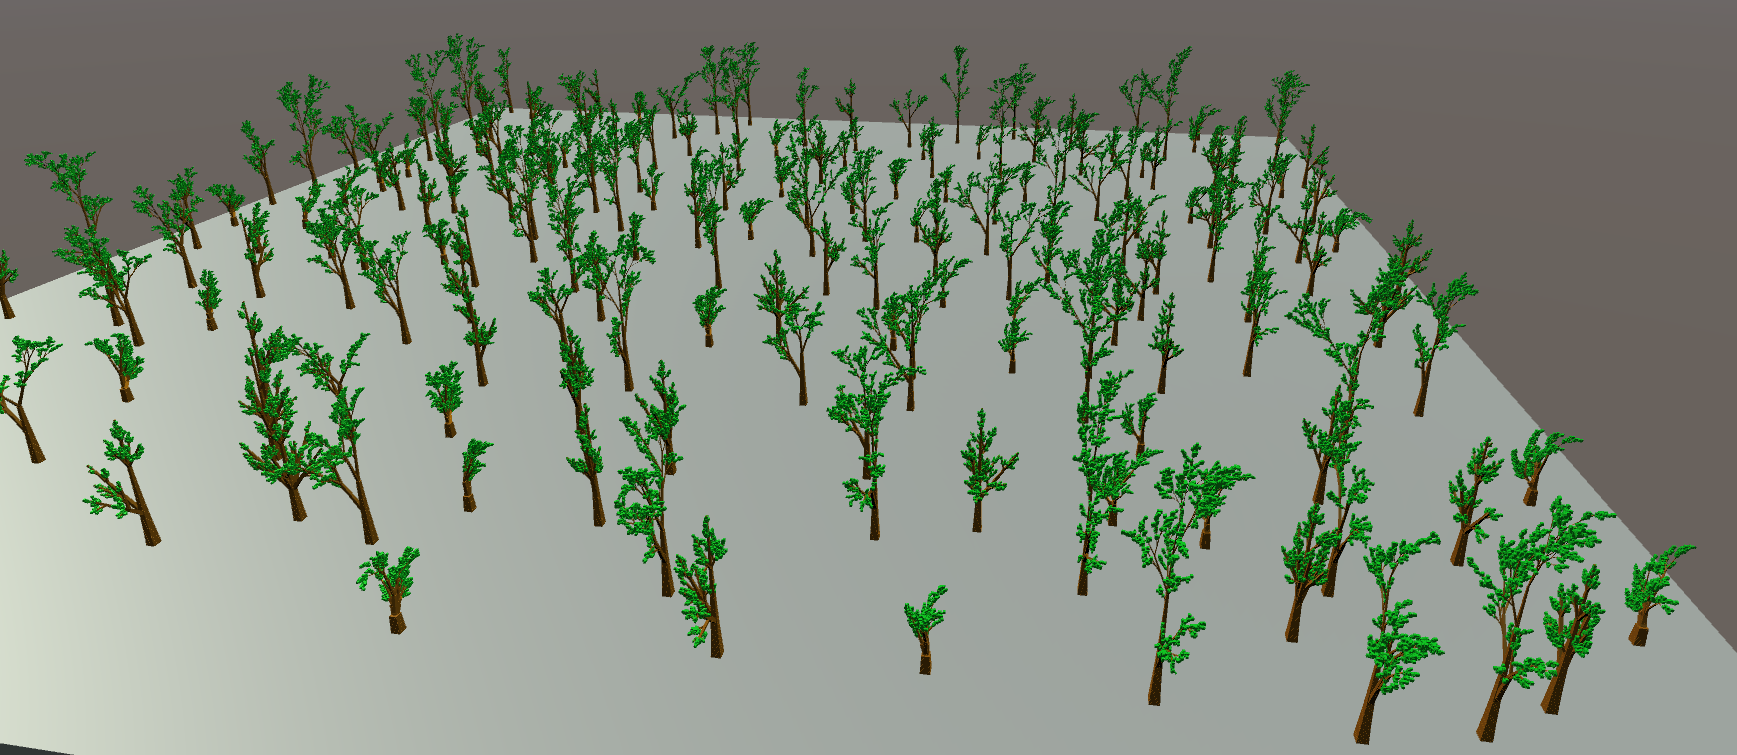
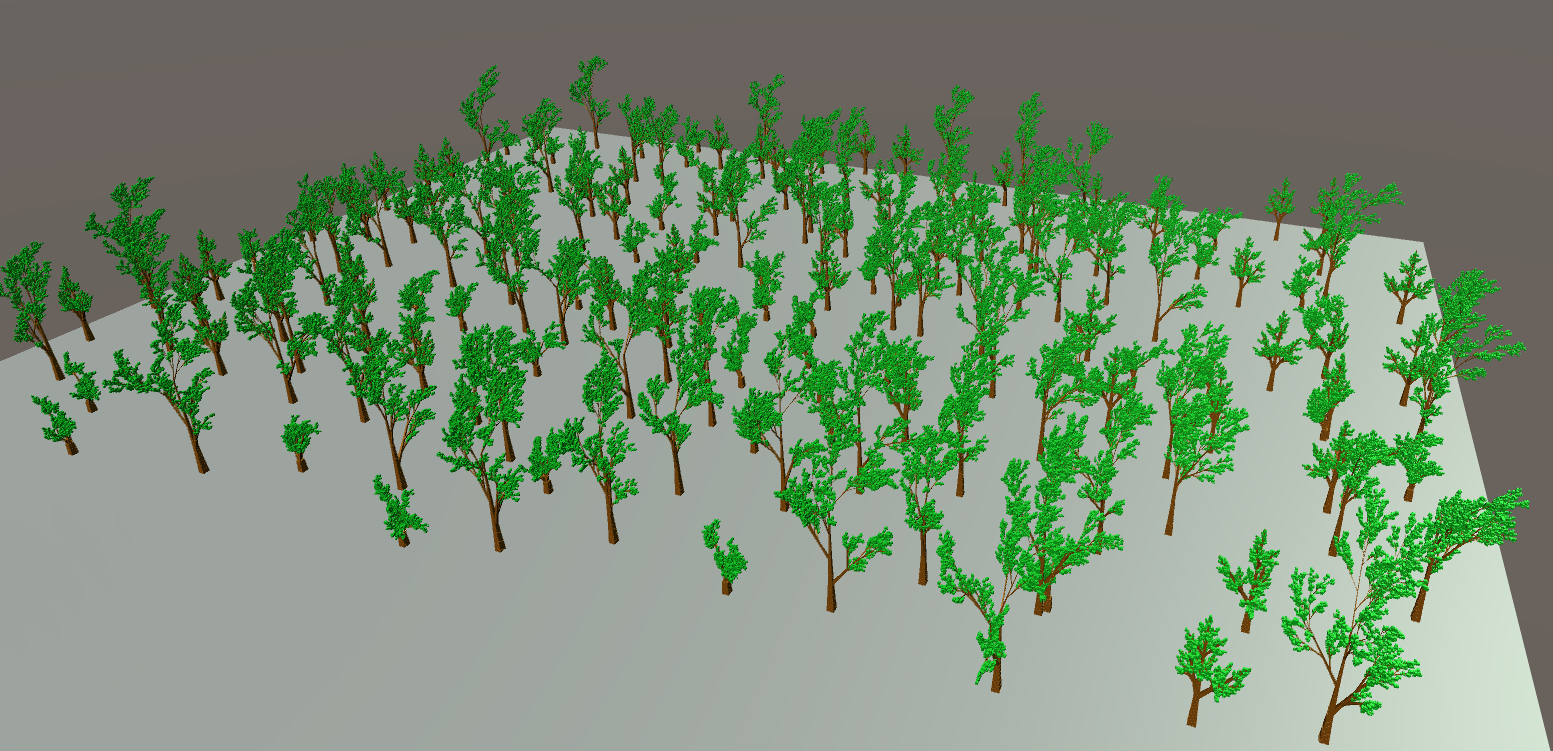
tweaked rules and added img

diff --git a/Assets/Scripts/LSystem.cs b/Assets/Scripts/LSystem.cs
@@ -80,7 +80,6 @@ public class LSystem : MonoBehaviour
         {
             CombineMeshes(leavesParent);
         }
-        Debug.Log("hey");
     }
 
     void Generate()
@@ -151,7 +150,7 @@ public class LSystem : MonoBehaviour
     void DrawLeaf(Vector3 position)
     {
         GameObject leafGO = Instantiate(leafPrefab, position, Quaternion.identity);
-        leafGO.transform.localScale = Vector3.one * Random.Range(0.75f, 2f);
+        leafGO.transform.localScale = Vector3.one * Random.Range(0.1f, 2.25f);
         leafGO.transform.parent = parentGO.transform;
         leavesGO.AddLast(leafGO);
     }
@@ -243,14 +242,6 @@ public class LSystem : MonoBehaviour
             meshFilters[i + 1].gameObject.SetActive(false);
 
             i++;
-        }
-
-        for (int j = 0; j < combine.Length; j++)
-        {
-            if(combine[j].mesh == null)
-            {
-                Debug.Log(j);
-            }
         }
 
         obj.transform.GetComponent<MeshFilter>().mesh = new Mesh();
